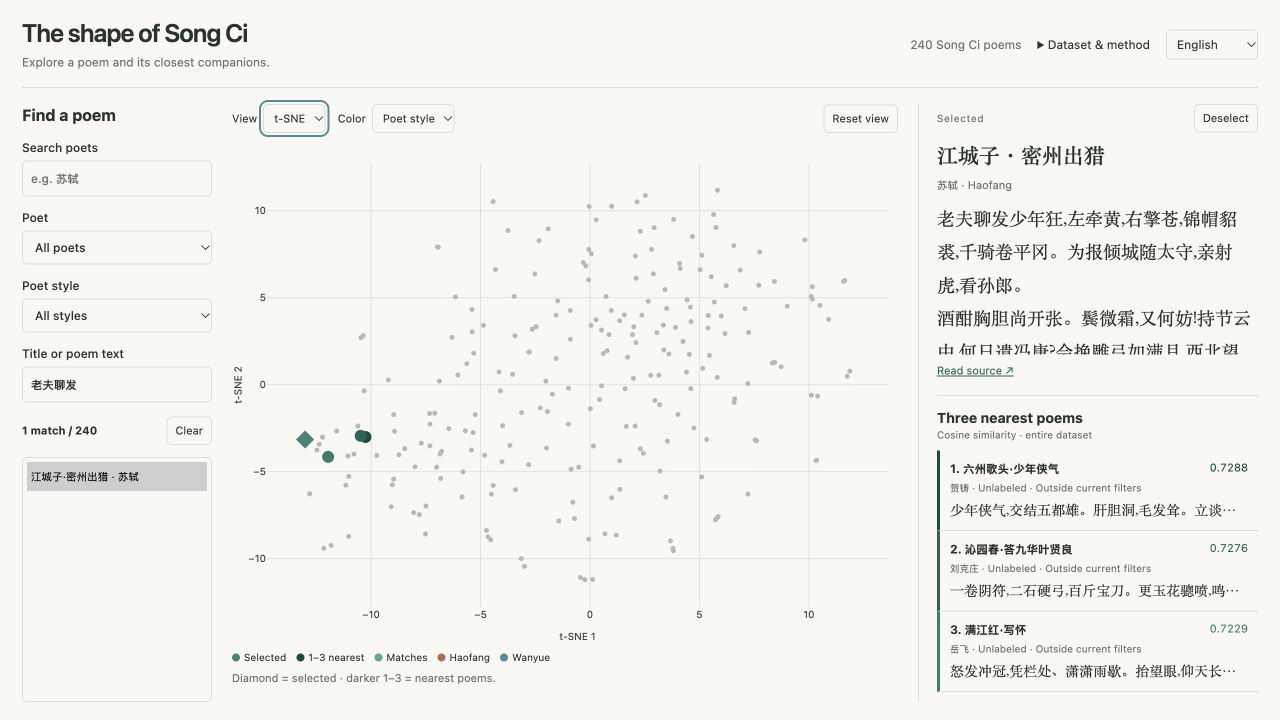
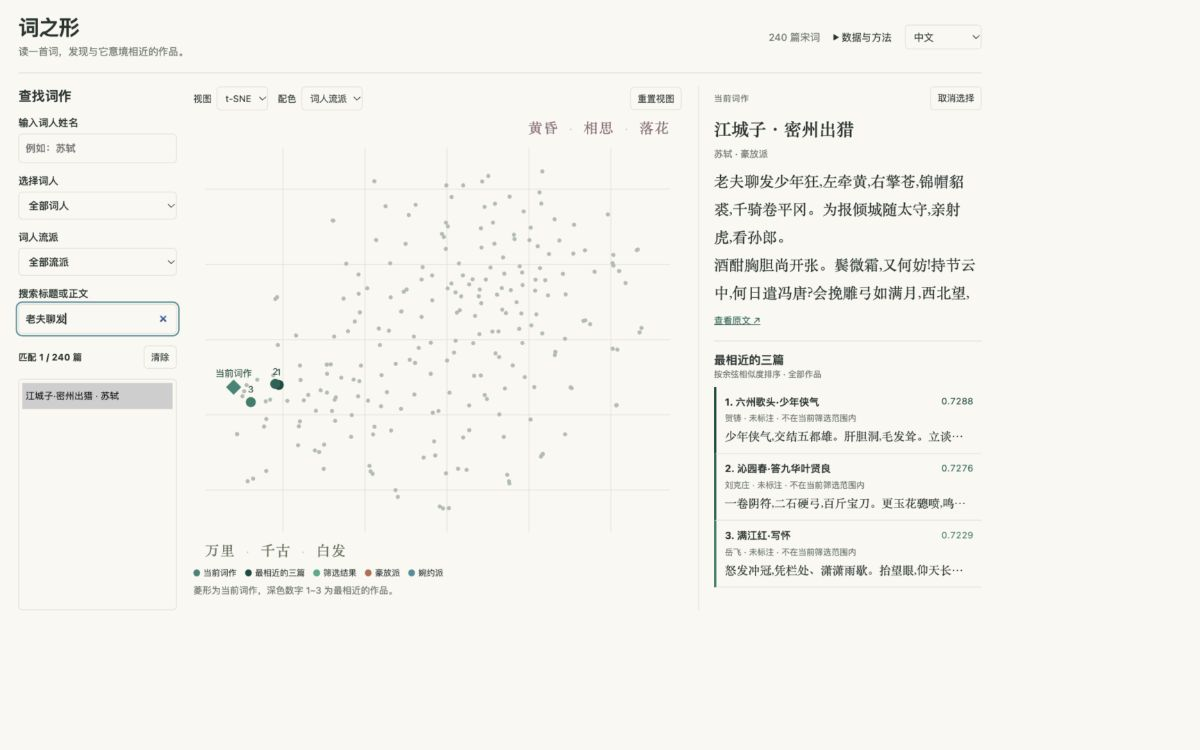
Refresh README hero with imagery landmarks

diff --git a/README.md b/README.md
@@ -1,6 +1,6 @@
 # The shape of Song Ci / 词之形
 
-![t-SNE view of 苏轼《江城子·密州出猎》, selected by searching 老夫聊发](docs/figures/app-preview.jpg)
+![t-SNE view with endpoint imagery labels, showing 苏轼《江城子·密州出猎》 selected by searching 老夫聊发](docs/figures/app-preview.jpg)
 
 A bilingual map of 240 Song Ci poems. Explore t-SNE and UMAP views,
 search by poet or poem text, and read a poem alongside its three closest
